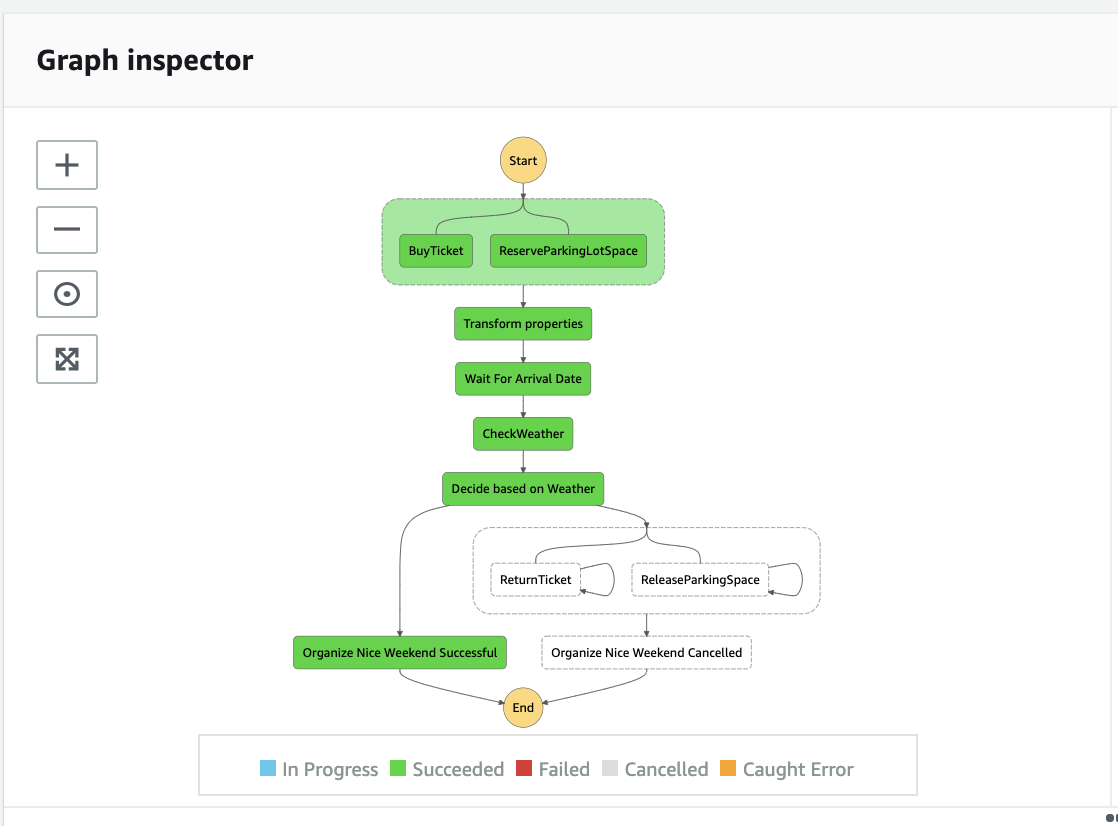
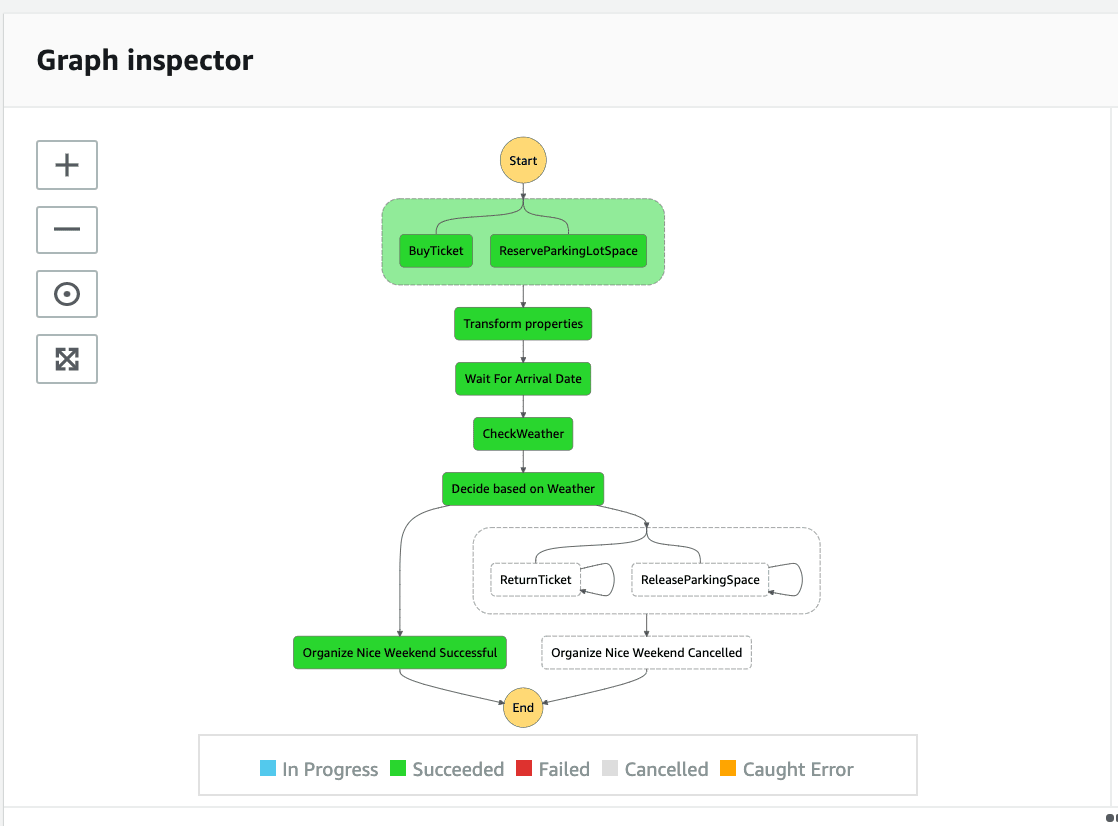
fix: Compress images, and fix tables for cron example for ruby (#645)

diff --git a/aws-ruby-cron-with-dynamodb/README.md b/aws-ruby-cron-with-dynamodb/README.md
@@ -150,29 +150,30 @@ logRetentionInDays: 30
 
 ## Structure
 
-|Path|Explanation|
-|-|-|-|
-|`./src`|All code for the project.|
-|`./src/handlers/create_meal_order`|Each Lambda function has its own folder.
-|`./src/common/`|Space for common, reusable pieces of code.
-|`./src/common/adapters/dynamo_db_adapter.rb`|Adapter for communication with DynamoDB with the usage of AWS SDK for Ruby. Only used for creating new records.
-|`./src/common/services/create_meal_order_service.rb`| The service object pattern is widely used within ruby/rails developers. A class that is responsible for doing only one thing. In our case is creating a meal order to the DynamoDB.
-
+| Path                                                     | Explanation                                                                                                                                                                                    |
+|----------------------------------------------------------|------------------------------------------------------------------------------------------------------------------------------------------------------------------------------------------------|
+| `./src`                                                  | All code for the project.                                                                                                                                                                      |
+| `./src/handlers/create_meal_order`                                 | Lambda function for creating a meal order.                                                                                                                                                    |
+| `./src/common/`                                          | Space for common, reusable pieces of code.                                                                                                                                                     |
+| `./src/common/adapters/dynamo_db_adapter.rb`             | Adapter for communication with DynamoDB with the usage of AWS SDK for Ruby. Only used for creating new records.                                                                                |
+| `./src/common/services/create_meal_order_service.rb`             | TThe service object pattern is widely used within ruby/rails developers. A class that is responsible for doing only one thing. In our case is creating a meal order to the DynamoDB.                                                                                |
+                                                                                     
 ## Serverless plugin
 
 For this example, there are two serverless plugins used:
 
-|Gem|Explanation|
-|-|-|-|
-|[serverless-ruby-layer](https://www.npmjs.com/package/serverless-ruby-layer)| For bundling ruby gems from `Gemfile` and deploys them to the lambda layer.
-|[serverless-export-env](https://www.npmjs.com/package/serverless-export-env)| For exporting the environment variables defined in `serverless.yml` into a `.env` file, so we can access these environment variables. For the purpose of this project, mostly for the DynamoDB Table name, region, a profile.|
+| Plugin                | Explanation                                                                                    |
+|-----------------------|------------------------------------------------------------------------------------------------|
+| [serverless-ruby-layer](https://www.npmjs.com/package/serverless-ruby-layer) | For bundling ruby gems from `Gemfile` and deploys them to the lambda layer.                      |
+| [serverless-export-env](https://www.npmjs.com/package/serverless-export-env)       | or exporting the environment variables defined in `serverless.yml` into a `.env` file, so we can access these environment variables. For the purpose of this project, mostly for the DynamoDB Table name, region, a profile. |
 
 ## Ruby gems
 
-|Gem|Explanation|
-|-|-|-|
-|`'aws-sdk-dynamodb'`| It's a part of the AWS SDK for Ruby. Used for DynamoDB, in the case of this example - creation of the new record.
-|`'faker'`| For generating fake meal order name.|
+| Gem                | Explanation                                                                                                                    |
+|--------------------|--------------------------------------------------------------------------------------------------------------------------------|
+| `aws-sdk-dynamodb` | It's a part of the AWS SDK for Ruby. Used for DynamoDB, in the case of this example - the creation of the new record.          |
+| `faker`      | For generating fake meal order name. |
+
 
 ## Remove service
 
